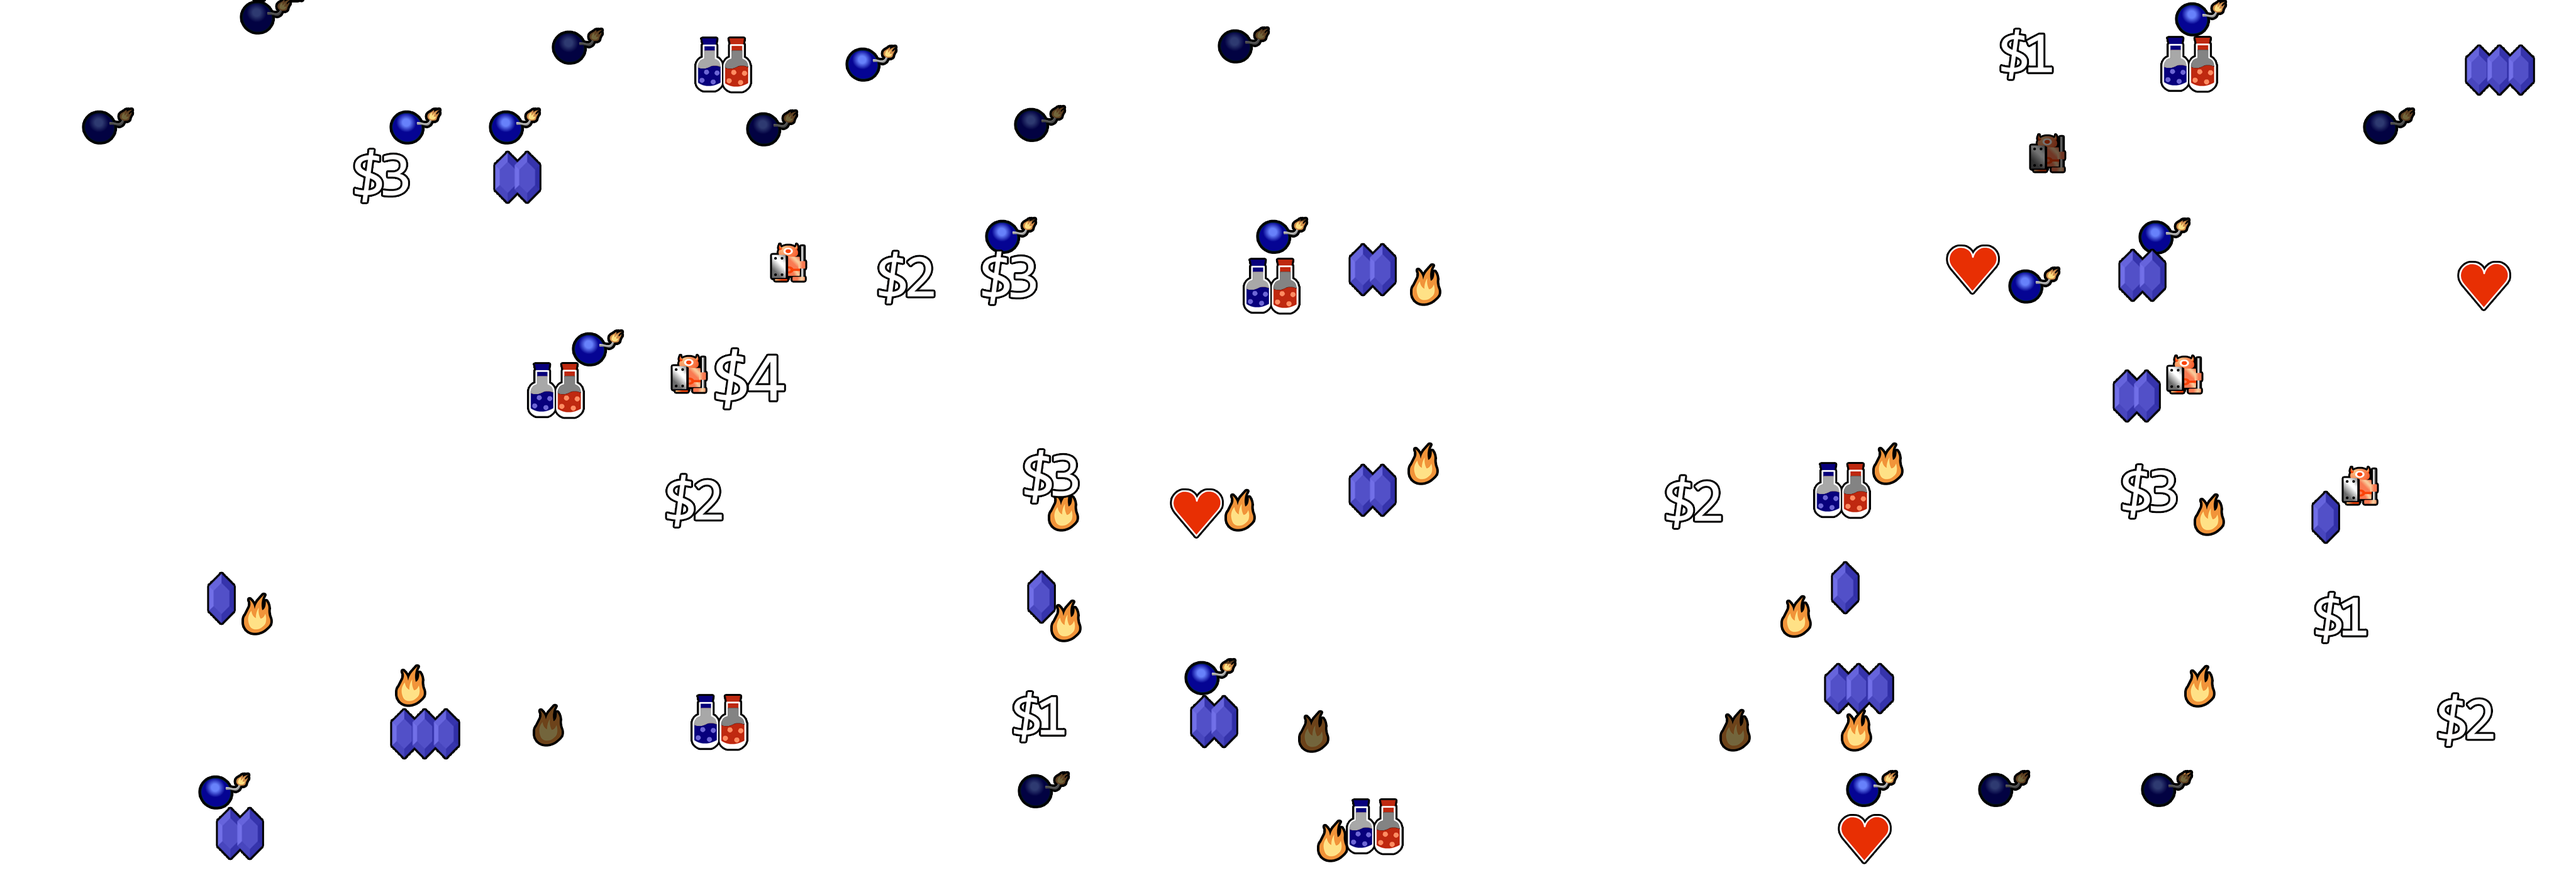
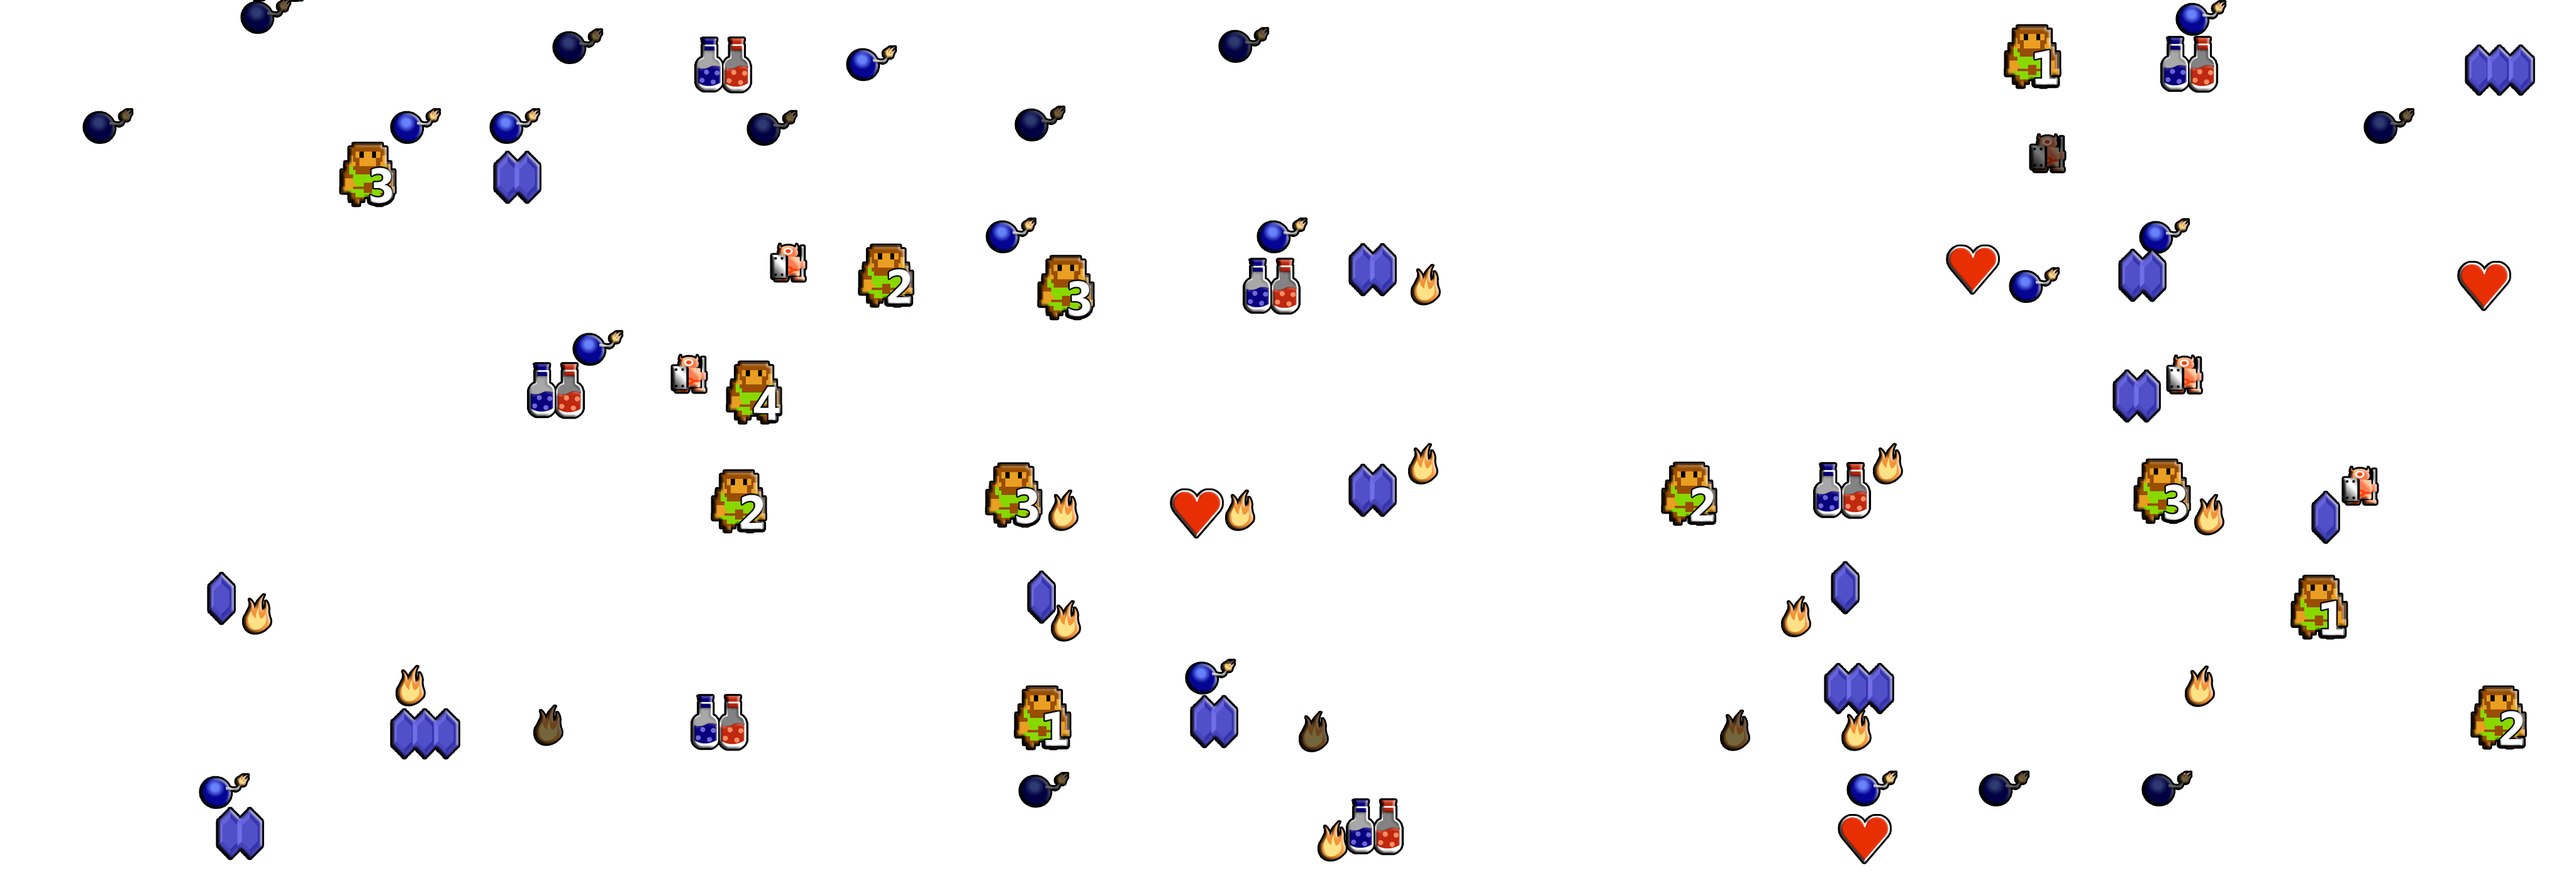
Alpha 4

diff --git a/index.html b/index.html
@@ -18,6 +18,7 @@
 	<div id="info" class="info">
 		<a href="https://github.com/allibear17/Legend-of-Zelda-Location-Tracker/" target="_blank">Click here for readme and source</a>
 	</div>
+	
 	<div id="mapdisplay" class="map-container">
 		<p><span id="tt" class="tooltip">Tooltip Info</span></p>
 		
@@ -26,6 +27,71 @@
 			<div id="overlay" class="base">
 				<img src="images/owoverlay.png">
 			</div>
+			
+			<div id="shopDropdown" class="shop-dropdown">
+				<img id="shopitem1" class="shop-item" src="sprites/anykey.png" onClick="shopItemClick()">
+				<img id="shopitem2" class="shop-item" src="sprites/arrow1.png" onClick="shopItemClick()">
+				<img id="shopitem3" class="shop-item" src="sprites/bait.png" onClick="shopItemClick()">
+				<img id="shopitem4" class="shop-item" src="sprites/bombs.png" onClick="shopItemClick()">
+				<img id="shopitem5" class="shop-item" src="sprites/bow.png" onClick="shopItemClick()">
+				<img id="shopitem6" class="shop-item" src="sprites/candle1.png" onClick="shopItemClick()">
+				<img id="shopitem7" class="shop-item" src="sprites/key.png" onClick="shopItemClick()">
+				<img id="shopitem8" class="shop-item" src="sprites/ladder.png" onClick="shopItemClick()">
+				<img id="shopitem9" class="shop-item" src="sprites/letter.png" onClick="shopItemClick()">
+				<img id="shopitem10" class="shop-item" src="sprites/magicbook.png" onClick="shopItemClick()">
+				<img id="shopitem11" class="shop-item" src="sprites/magicshield.png" onClick="shopItemClick()">
+				<img id="shopitem12" class="shop-item" src="sprites/pbracelet.png" onClick="shopItemClick()">
+				<img id="shopitem13" class="shop-item" src="sprites/raft.png" onClick="shopItemClick()">
+				<img id="shopitem14" class="shop-item" src="sprites/ring1.png" onClick="shopItemClick()">
+				<img id="shopitem15" class="shop-item" src="sprites/sword2.png" onClick="shopItemClick()">
+				<img id="shopitem16" class="shop-item" src="sprites/wand.png" onClick="shopItemClick()">
+				<img id="shopitem17" class="shop-item" src="sprites/whistle.png" onClick="shopItemClick()">
+				<img id="shopitem18" class="shop-item" src="sprites/heart.png" onClick="shopItemClick()">
+			</div>
+
+			<img id="shopguy1" class="shop-merchant" src="sprites/merchant1.png">
+			<button class="in-shop" onClick="toggleShop()">
+				<img id="shopshow1" src="sprites/blank.png" class="shop-item">
+			</button>
+			<button class="in-shop" onClick="toggleShop()">
+				<img id="shopshow2" src="sprites/blank.png" class="shop-item">
+			</button>
+			<button class="in-shop" onClick="toggleShop()">
+				<img id="shopshow3" src="sprites/blank.png" class="shop-item">
+			</button>
+
+			<img id="shopguy2" class="shop-merchant" src="sprites/merchant2.png">
+			<button class="in-shop" onClick="toggleShop()">
+				<img id="shopshow4" src="sprites/blank.png" class="shop-item">
+			</button>
+			<button class="in-shop" onClick="toggleShop()">
+				<img id="shopshow5" src="sprites/blank.png" class="shop-item">
+			</button>
+			<button class="in-shop" onClick="toggleShop()">
+				<img id="shopshow6" src="sprites/blank.png" class="shop-item">
+			</button>
+
+			<img id="shopguy3" class="shop-merchant" src="sprites/merchant3.png">
+			<button class="in-shop" onClick="toggleShop()">
+				<img id="shopshow7" src="sprites/blank.png" class="shop-item">
+			</button>
+			<button class="in-shop" onClick="toggleShop()">
+				<img id="shopshow8" src="sprites/blank.png" class="shop-item">
+			</button>
+			<button class="in-shop" onClick="toggleShop()">
+				<img id="shopshow9" src="sprites/blank.png" class="shop-item">
+			</button>
+
+			<img id="shopguy4" class="shop-merchant" src="sprites/merchant4.png">
+			<button class="in-shop" onClick="toggleShop()">
+				<img id="shopshow10" src="sprites/blank.png" class="shop-item">
+			</button>
+			<button class="in-shop" onClick="toggleShop()">
+				<img id="shopshow11" src="sprites/blank.png" class="shop-item">
+			</button>
+			<button class="in-shop" onClick="toggleShop()">
+				<img id="shopshow12" src="sprites/blank.png" class="shop-item">
+			</button>
 		</div>
 
 		<div id="onetwo" class="base">

diff --git a/scripts/main.js b/scripts/main.js
@@ -9,6 +9,7 @@ var markerTypes = [
 	"images/marker5.png",
 	"images/marker6.png"
 ];
+var lastClick;
 
 function justLoaded(){
 	hideAll();
@@ -25,6 +26,7 @@ function hideAll(){
 	fivesix.style.display = "none";
 	seveneight.style.display = "none";
 	nine.style.display = "none";
+	shopDropdown.style.display = "none";
 }
 
 function showSection(m) {
@@ -66,6 +68,7 @@ function toggleMarker(event) {
     var clicked = document.getElementById(this.id);
 	var clickedSrc = clicked.getAttribute("src");
 	var type = 0;
+	
 	for ( i = 0; i < markerTypes.length; i++){
 		if ( clickedSrc == markerTypes[i] ){
 			type = i+1;
@@ -93,6 +96,7 @@ function hideTooltip(){
 }
 function changeBG(){
 	document.body.style.backgroundColor = document.getElementById("bgcolor").value;
+	document.getElementById("shopDropdown").style.backgroundColor = document.getElementById("bgcolor").value;
 }
 
 function info(){
@@ -111,3 +115,42 @@ function Location(x, y){
 	this.canReach = false;
 	this.elem = "";
 }
+
+function toggleShop(){
+	var id = document.getElementById("shopDropdown");
+    if ( id.style.display == "block"){
+		id.style.display = "none";
+	} else {
+		id.style.display = "block";
+	}
+	lastClick = event.target;
+	id.style.top = event.clientY - 160 + "px";	
+	id.style.left = event.clientX + "px";	
+}
+
+function shopItemClick(){
+	var idSrc = event.target.getAttribute("src");
+	lastClick.setAttribute("src", idSrc);
+	toggleShop();
+}
+
+addEventListener('contextmenu', function(e) {
+	e.preventDefault();
+	if (( e.target.className == "owmarker" ) || ( e.target.className == "lvmarker" )){
+		var clicked = document.getElementById(e.target.id);
+		var clickedSrc = clicked.getAttribute("src");
+		var type = 0;
+	
+		for ( i = 0; i < markerTypes.length; i++){
+			if ( clickedSrc == markerTypes[i] ){
+				type = i-1;
+			}
+		}
+		if ( type >= 0 ){
+			clicked.setAttribute("src", markerTypes[type]);
+		}
+		else {
+			clicked.setAttribute("src", markerTypes[6]);
+		}
+	}
+});

diff --git a/style.css b/style.css
@@ -3,16 +3,16 @@ body {
 }
 button {
 	font-family: helvetica, arial, sans-serif;
-    background-color: #4CAF50;
-    border: none;
-    color: white;
-    padding: 4px 10px;
-    text-align: center;
-    text-decoration: none;
-    display: inline-block;
-    font-size: 14px;
-    margin: 2px 0px;
-    cursor: pointer;
+	background-color: #4CAF50;
+	border: none;
+	color: white;
+	padding: 4px 10px;
+	text-align: center;
+	text-decoration: none;
+	display: inline-block;
+	font-size: 14px;
+	margin: 2px 0px;
+	cursor: pointer;
 	outline: none;
 	border-radius: 10px;
 	box-shadow: 0 2px #999;
@@ -43,7 +43,7 @@ button:active{
     padding: 0px 0px;
 	z-index: 2;
 	outline: rgba(0, 0, 0, 1) solid 1px;
-	outline-offset: -1px;
+	outline-offset: -1.5px;
 }
 .tooltip {
 	font-family: helvetica, arial, sans-serif;
@@ -92,4 +92,41 @@ a{
 	background-color: #ffffcc;
 	font-family: helvetica, arial, sans-serif;
 	color: #000000;
+}
+.shop-dropdown{
+	display: none;
+	background-color: #666666;
+	position: absolute;
+	top: 0px;
+	left: 0px;
+	width: 210px;
+	overflow: auto;
+	box-shadow: 0px 8px 16px 0px rgba(0,0,0,0.4);
+	padding-top: 4px;
+	padding-left: 4px;
+	border: 2px solid black;
+	z-index: 4;
+}
+.shop-item{
+	width: 25px;
+	height: 25px;
+	padding: 2px 2px 2px 2px;
+	background-color: #444444;
+	border: 1px solid black;
+}
+
+.in-shop{
+	background-color: rgba(0,0,0,0);
+	border: none;
+	padding: 0px 0px;
+	display: inline-block;
+	margin: 0px 0px;
+	cursor: pointer;
+	outline: none;
+	box-shadow: 0 0px #999;
+	z-index: 4;
+}
+.in-shop:active{
+	box-shadow: 0 0px #999;
+	transform: translateY(2px);
 }
